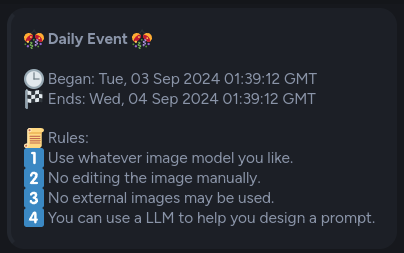
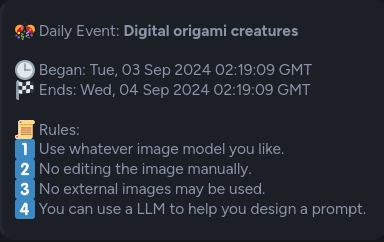
readme / assets

Changed region(s): [[0.0312, 0.4917, 0.9375, 0.9256], [0.0312, 0.2314, 0.8125, 0.4339], [0.0312, 0.0868, 0.7812, 0.2025]]

diff --git a/src/index.ts b/src/index.ts
@@ -1,10 +1,19 @@
-import 'dotenv/config'
-import { DiscordEvents, DiscordEvent } from "./ts/events";
-import { output } from "./ts/output";
-import { ChatInputCommandInteraction, BaseInteraction, Client, Events, GatewayIntentBits, type CacheType, type Interaction, EmbedBuilder } from 'discord.js';
-import { REST, Routes } from 'discord.js';
-import { getTopic } from "./ts/select";
-import { BotMessages } from "./ts/botmessages";
+import "dotenv/config"
+import { DiscordEvents, DiscordEvent } from "./ts/events"
+import { output } from "./ts/output"
+import {
+    ChatInputCommandInteraction,
+    BaseInteraction,
+    Client,
+    Events,
+    GatewayIntentBits,
+    type CacheType,
+    type Interaction,
+    EmbedBuilder,
+} from "discord.js"
+import { REST, Routes } from "discord.js"
+import { getTopic } from "./ts/select"
+import { BotMessages } from "./ts/botmessages"
 
 // TODO: Add formatting to Messages
 // TODO: Add way to set the channel
@@ -12,116 +21,104 @@ import { BotMessages } from "./ts/botmessages";
 
 let myEvents = new DiscordEvents()
 
-const rest = new REST({ version: '10' }).setToken(process.env.TOKEN_ID as string);
+const rest = new REST({ version: "10" }).setToken(process.env.TOKEN_ID as string)
 
 const client = new Client({
-	intents: [
-		GatewayIntentBits.Guilds,
-		GatewayIntentBits.GuildMessages,
-		GatewayIntentBits.DirectMessages,
-		GatewayIntentBits.MessageContent
-	]
-});
+    intents: [GatewayIntentBits.Guilds, GatewayIntentBits.GuildMessages, GatewayIntentBits.DirectMessages, GatewayIntentBits.MessageContent],
+})
 
 async function registerSlash() {
-	try {
-		output.console(`[Info] Registering slash commands with Discord.. Please wait..`)
-		await rest.put(Routes.applicationCommands(process.env.APP_ID as string), {
-			body:
-				[
-					{
-						name: 'addcontest',
-						description: 'Adds an event to the list of events',
-						options: [
-							{
-								name: 'name',
-								description: 'Name of the event',
-								required: true,
-								type: 3
-							},
-							{
-								name: 'frequency',
-								description: 'Frequency of the event in hours',
-								required: true,
-								type: 4
-							}
-						]
-					}
-				]
-		});
-	} catch (error) {
-		output.console(`[Registering] ${error}`)
-		throw new Error(`[Registering] ${error}`)
-	}
+    try {
+        output.console(`[Info] Registering slash commands with Discord.. Please wait..`)
+        await rest.put(Routes.applicationCommands(process.env.APP_ID as string), {
+            body: [
+                {
+                    name: "addcontest",
+                    description: "Adds an event to the list of events",
+                    options: [
+                        {
+                            name: "name",
+                            description: "Name of the event",
+                            required: true,
+                            type: 3,
+                        },
+                        {
+                            name: "frequency",
+                            description: "Frequency of the event in hours",
+                            required: true,
+                            type: 4,
+                        },
+                    ],
+                },
+            ],
+        })
+    } catch (error) {
+        output.console(`[Registering] ${error}`)
+        throw new Error(`[Registering] ${error}`)
+    }
 }
 const contest = (channelID: string, msg: string, start: Date, end: Date) => {
-	client.channels.fetch(channelID).then(channel => {
-		if (channel) {
-			let topic = getTopic();
-			if (topic != null) {
-				channel.send({ embeds: [BotMessages.eventPosted(msg, start, end)] });
-			} else {
-				output.console("[Error] Missing projects.json")
-			}
-		} else {
-			output.console("[Error] Channel not found")
-		}
-	});
+    client.channels.fetch(channelID).then((channel) => {
+        if (channel) {
+            let topic = getTopic()
+            if (topic != null) {
+                channel.send({ embeds: [BotMessages.eventPosted(msg, topic, start, end)] })
+            } else {
+                output.console("[Error] Missing projects.json")
+            }
+        } else {
+            output.console("[Error] Channel not found")
+        }
+    })
 }
 
 async function initEvents() {
-	await myEvents.load()
+    await myEvents.load()
 
-	if (myEvents.events.length === 0) {
-		myEvents.add(
-			new DiscordEvent("Hourly Event", 60 * 60, "393577466452508684", Date.now())
-		)
+    if (myEvents.events.length === 0) {
+        myEvents.add(new DiscordEvent("Hourly Event", 60 * 60, "393577466452508684", Date.now()))
 
-		myEvents.add(
-			new DiscordEvent("Daily Event", 60 * 60 * 24, "1092176267979272273", Date.now())
-		)
-	}
+        myEvents.add(new DiscordEvent("Daily Event", 60 * 60 * 24, "1092176267979272273", Date.now()))
+    }
 
-	setInterval(() => {
+    setInterval(() => {
+        myEvents.events.forEach((e) => {
+            if (e.isRun()) {
+                e.setNextEvent()
+                myEvents.save()
+                output.console(`[Exec Event] ${e.name}`)
 
-		myEvents.events.forEach((e) => {
-			if (e.isRun()) {
-				e.setNextEvent()
-				myEvents.save()
-				output.console(`[Exec Event] ${e.name}`)
+                let start: Date = new Date()
+                let end: Date = new Date(new Date().getTime() + e.frequency)
 
-				let start: Date = new Date()
-				let end: Date = new Date(new Date().getTime() + e.frequency);
-
-				contest(e.channel, e.name, start, end);
-			}
-		})
-	}, 1000);
+                contest(e.channel, e.name, start, end)
+            }
+        })
+    }, 1000)
 }
 
 const addContest = (intr: ChatInputCommandInteraction) => {
-	let optName: string | null = intr.options.getString('name')
-	let optFrequency: number | null = intr.options.getInteger('frequency')
-	let channel: string = intr.channelId
+    let optName: string | null = intr.options.getString("name")
+    let optFrequency: number | null = intr.options.getInteger("frequency")
+    let channel: string = intr.channelId
 
-	if (optName && optFrequency && channel) {
-		output.console(`[Add Event] ${optName} (Every ${optFrequency} hours, for channel ${channel})`)
-		intr.reply({ embeds: [BotMessages.eventAdded(optName, optFrequency, channel)], ephemeral: true });
-	}
+    if (optName && optFrequency && channel) {
+        output.console(`[Add Event] ${optName} (Every ${optFrequency} hours, for channel ${channel})`)
+        intr.reply({ embeds: [BotMessages.eventAdded(optName, optFrequency, channel)], ephemeral: true })
+    }
 }
 
-client.on('interactionCreate', async interaction => {
-	if (!interaction.isChatInputCommand()) return;
-	output.console(`[Interaction] ${interaction.commandName} (${interaction.user.tag})`)
+client.on("interactionCreate", async (interaction) => {
+    if (!interaction.isChatInputCommand()) return
+    output.console(`[Interaction] ${interaction.commandName} (${interaction.user.tag})`)
 
-	if (interaction.commandName === 'addcontest') addContest(interaction)
-});
+    if (interaction.commandName === "addcontest") addContest(interaction)
+})
 
-client.once(Events.ClientReady, readyClient => {
-	output.console(`[Ready] Logged in as ${readyClient.user.tag}`)
-	initEvents();
-});
+client.once(Events.ClientReady, (readyClient) => {
+    output.console(`[Ready] Logged in as ${readyClient.user.tag}`)
+    initEvents()
+})
 
-await registerSlash();
-client.login(process.env.TOKEN_ID);
-
+await registerSlash()
+client.login(process.env.TOKEN_ID)

diff --git a/src/ts/botmessages.ts b/src/ts/botmessages.ts
@@ -1,29 +1,27 @@
-import { EmbedBuilder } from "discord.js";
+import { EmbedBuilder } from "discord.js"
 
 class BotMessages {
-	constructor() { }
+    constructor() {}
 
-	static eventAdded = (name: string, frequency: number, channel: string) => {
-		let msg = `📅 Event Added! 🎉\n\n` +
-			`🔔 Name: ${name}\n` +
-			`⏰ Frequency: Every ${frequency} hours\n` +
-			`📢 Channel: ${channel}`;
+    static eventAdded = (name: string, frequency: number, channel: string) => {
+        let msg = `📅 Event Added! 🎉\n\n` + `🔔 Name: ${name}\n` + `⏰ Frequency: Every ${frequency} hours\n` + `📢 Channel: ${channel}`
 
-		return new EmbedBuilder().setDescription(msg);
-	}
+        return new EmbedBuilder().setDescription(msg)
+    }
 
-	static eventPosted = (name: string, beginTime: Date, endTime: Date) => {
-		let msg = `🎊 **${name}** 🎊\n\n` +
-			`🕒 Began: ${beginTime.toUTCString()}\n` +
-			`🏁 Ends: ${endTime.toUTCString()}\n\n` +
-			`📜 Rules:\n` +
-			`     1⃣ Use whatever image model you like.\n` +
-			`     2⃣ No editing the image manually.\n` +
-			`     3⃣ No external images may be used.\n` +
-			`     4⃣ You can use a LLM to help you design a prompt.\n\n`;
+    static eventPosted = (name: string, subject: string, beginTime: Date, endTime: Date) => {
+        let msg =
+            `🎊 ${name}: **${subject}**\n\n` +
+            `🕒 Began: ${beginTime.toUTCString()}\n` +
+            `🏁 Ends: ${endTime.toUTCString()}\n\n` +
+            `📜 Rules:\n` +
+            `1⃣ Use whatever image model you like.\n` +
+            `2⃣ No editing the image manually.\n` +
+            `3⃣ No external images may be used.\n` +
+            `4⃣ You can use a LLM to help you design a prompt.\n\n`
 
-		return new EmbedBuilder().setDescription(msg)
-	}
+        return new EmbedBuilder().setDescription(msg)
+    }
 }
 
 export { BotMessages }

diff --git a/README.md b/README.md
@@ -104,6 +104,9 @@ To run:
 bun run bot
 ```
 
+## Console Logs
+![screenshot](./assets/logs.png)
+
 ## Transpiling to Native JavaScript
 
 While Bun is gaining popularity, not all hosting providers support it yet. Don't worry though – you can easily convert your Bun project to pure JavaScript, ensuring compatibility with virtually any hosting environment.
